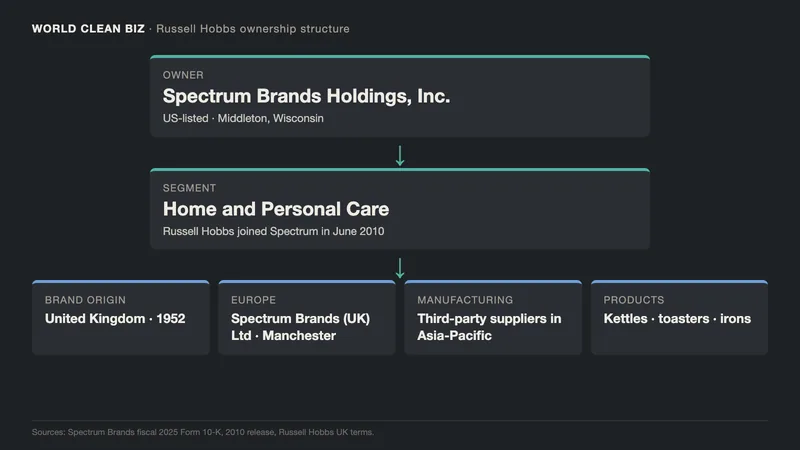
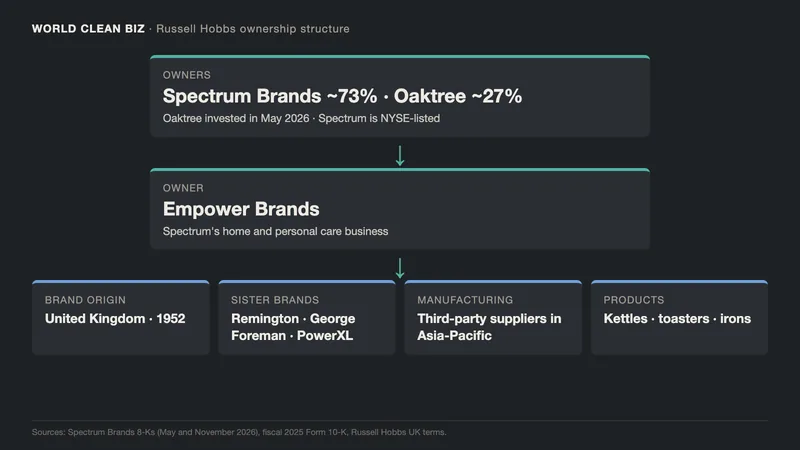
News: Empower Brands bid for Helen of Troy, Narwal V50 Cube; update Russell Hobbs ownership (Empower Brands, Oaktree 27%)

diff --git a/content/news/empower-brands-helen-of-troy-proposal-november-2026.md b/content/news/empower-brands-helen-of-troy-proposal-november-2026.md
@@ -1,0 +1,26 @@
+---
+title: "Empower Brands, Owner of Russell Hobbs and Remington, Bids USD 37 a Share for Helen of Troy"
+excerpt: "The Spectrum Brands and Oaktree business made its raised, unsolicited offer public after Helen of Troy called it inadequate."
+topic: "companies"
+category: "Mergers & Acquisitions"
+date: "2026-11-09"
+publishedAt: "2026-11-09T09:20:00+08:00"
+sortDate: "2026-11-09T09:20:00+08:00"
+eventDate: "2026-11-04"
+brand_slugs: ["russell-hobbs"]
+product_slugs: []
+related_articles: ["who-owns-russell-hobbs-spectrum-brands"]
+source_titles: ["Spectrum Brands Form 8-K, November 4, 2026", "Empower Brands press release, November 4, 2026 (Exhibit 99.1)"]
+source_urls: ["https://www.sec.gov/Archives/edgar/data/0000109177/000095010326016905/dp256289_8k.htm", "https://www.sec.gov/Archives/edgar/data/0000109177/000095010326016905/dp256289_ex9901.htm"]
+key_figures: [{"label": "Offer price", "value": "USD 37.00 per share", "change": "up from USD 34.00", "period": "October 12, 2026"}, {"label": "Implied enterprise value", "value": "About USD 1.6 billion", "change": "", "period": "November 2026"}, {"label": "Empower stake in Helen of Troy", "value": "About 4.5%", "change": "", "period": "November 2026"}]
+updatedAt: "2026-11-09T09:20:00+08:00"
+---
+Empower Brands, the home and personal care business jointly owned by Spectrum Brands and funds managed by Oaktree Capital Management, made public on November 4 a non-binding, all-cash proposal to buy Helen of Troy for USD 37.00 per share. The offer implies an enterprise value of about USD 1.6 billion.
+
+Empower owns [Russell Hobbs](/brands/russell-hobbs), Remington, George Foreman and PowerXL, and sells BLACK+DECKER household appliances. Helen of Troy owns OXO, Hydro Flask and Osprey.
+
+The [press release](https://www.sec.gov/Archives/edgar/data/0000109177/000095010326016905/dp256289_ex9901.htm) set out the history. Empower first proposed USD 34.00 per share on August 19. Helen of Troy rejected it on September 3 without further engagement. Empower raised the offer to USD 37.00 on October 12, and on October 20 Helen of Troy's management called the increased proposal inadequate. Empower said the price was a 31% premium to Helen of Troy's 30-day volume-weighted share price, and that an affiliate already owns about 4.5% of Helen of Troy's shares.
+
+The deal would be paid for with Empower's cash, new equity from Spectrum Brands and Oaktree, and third-party debt, with no financing contingency. Spectrum's [8-K filing](https://www.sec.gov/Archives/edgar/data/0000109177/000095010326016905/dp256289_8k.htm) said neither it nor Empower has had access to Helen of Troy's books. No agreement has been signed.
+
+Oaktree took about 27% of Spectrum's home and personal care business in May 2026. For the ownership chain behind Russell Hobbs, see [who owns Russell Hobbs](/blog/who-owns-russell-hobbs-spectrum-brands).

diff --git a/content/news/narwal-v50-cube-us-launch-november-2026.md b/content/news/narwal-v50-cube-us-launch-november-2026.md
@@ -1,0 +1,24 @@
+---
+title: "Narwal Launches V50 Cube, Its First Cordless Stick Vacuum in the US"
+excerpt: "The robot vacuum maker's first US cordless dry vacuum comes with an auto-empty base and a USD 499.99 launch price."
+topic: "products"
+category: "Cordless Vacuums"
+date: "2026-11-09"
+publishedAt: "2026-11-09T09:25:00+08:00"
+sortDate: "2026-11-09T09:25:00+08:00"
+eventDate: "2026-11-02"
+brand_slugs: ["narwal"]
+product_slugs: []
+related_articles: ["who-owns-narwal-yunjing-investors-manufacturing"]
+source_titles: ["Narwal press release via PR Newswire, November 2, 2026"]
+source_urls: ["https://prnewswire.com/news-releases/narwal-launches-the-v50-cube-in-the-us-debuting-its-first-cordless-dry-vacuum-with-a-compact-auto-empty-base-station-302925955.html"]
+key_figures: [{"label": "MSRP", "value": "USD 649.99", "change": "", "period": "November 2026"}, {"label": "Launch price", "value": "USD 499.99", "change": "until November 30", "period": "November 2026"}, {"label": "Suction", "value": "210 AW", "change": "", "period": "Manufacturer claim"}]
+updatedAt: "2026-11-09T09:25:00+08:00"
+---
+[Narwal](/brands/narwal), best known for its self-cleaning robot vacuums, launched the V50 Cube in the United States on November 2. The company calls it its first cordless dry vacuum for the US market.
+
+The V50 Cube is a cordless stick vacuum that docks into a compact base. According to Narwal's [announcement](https://prnewswire.com/news-releases/narwal-launches-the-v50-cube-in-the-us-debuting-its-first-cordless-dry-vacuum-with-a-compact-auto-empty-base-station-302925955.html), the base empties the dustbin into a sealed 0.8-gallon bag, which Narwal says holds up to 100 days of debris, and charges a spare battery. The vacuum weighs 3.1 lb and is rated at 210 AW of suction from a 450 W motor. Narwal claims up to 110 minutes of runtime with two batteries, in Eco mode with the main brush, based on lab testing.
+
+The list price is USD 649.99, with a launch price of USD 499.99 from November 2 to November 30. It is sold on Narwal's website and Amazon.
+
+The launch puts Narwal into the auto-empty stick vacuum segment, where Shark, Dyson and Samsung already sell models with self-emptying bases. See [who owns Narwal](/blog/who-owns-narwal-yunjing-investors-manufacturing).
